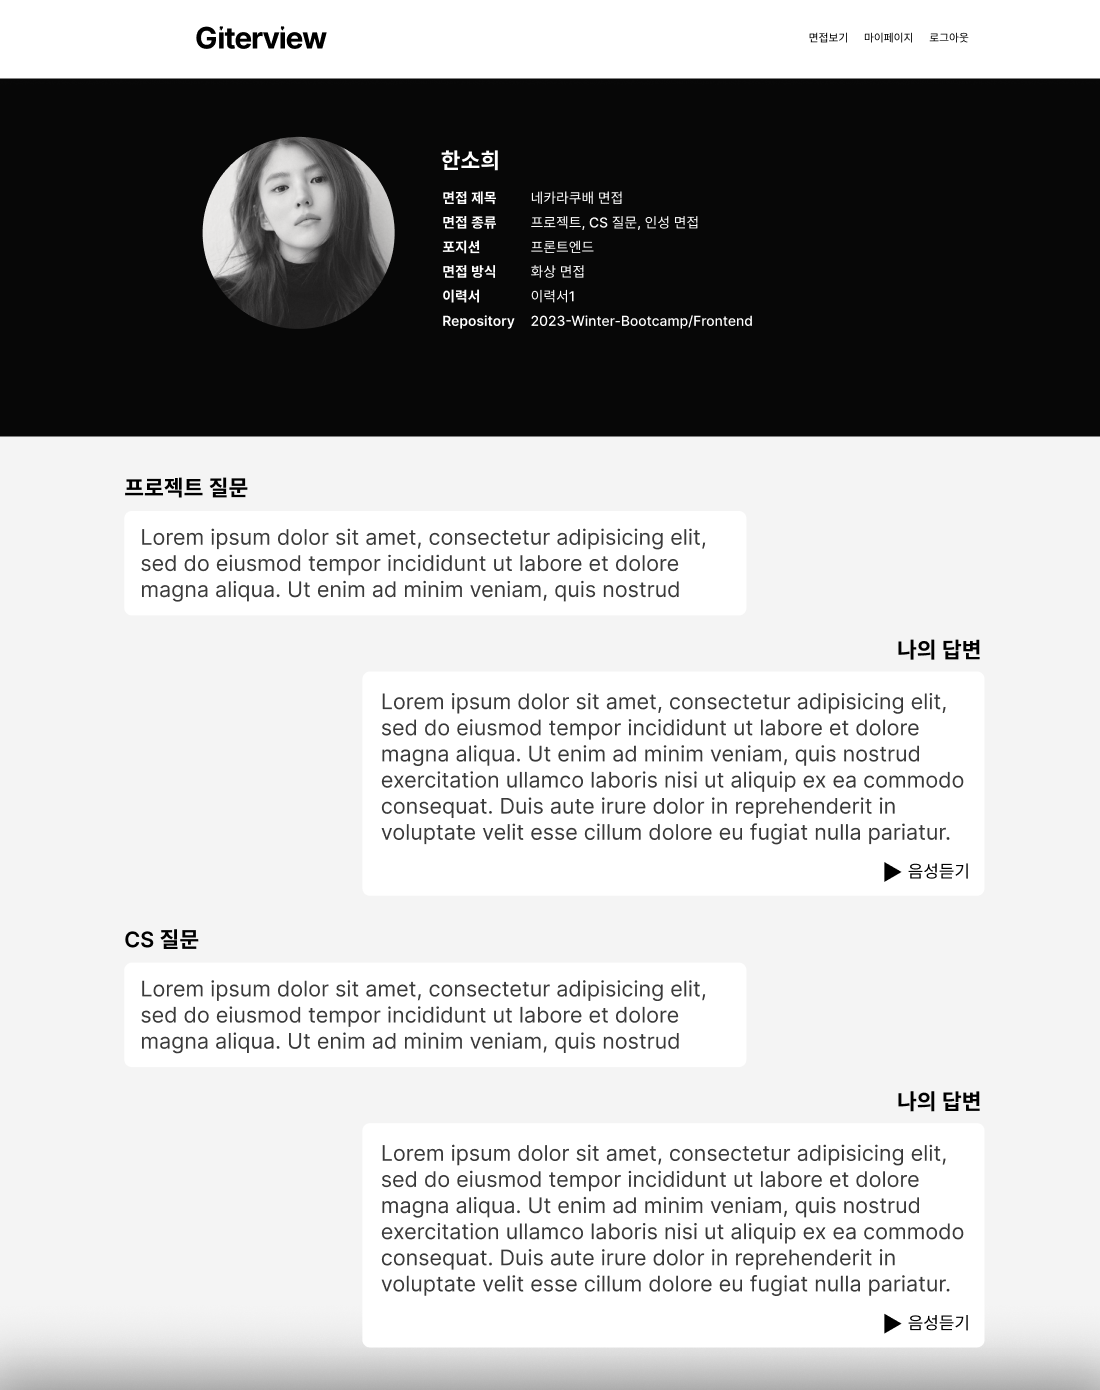
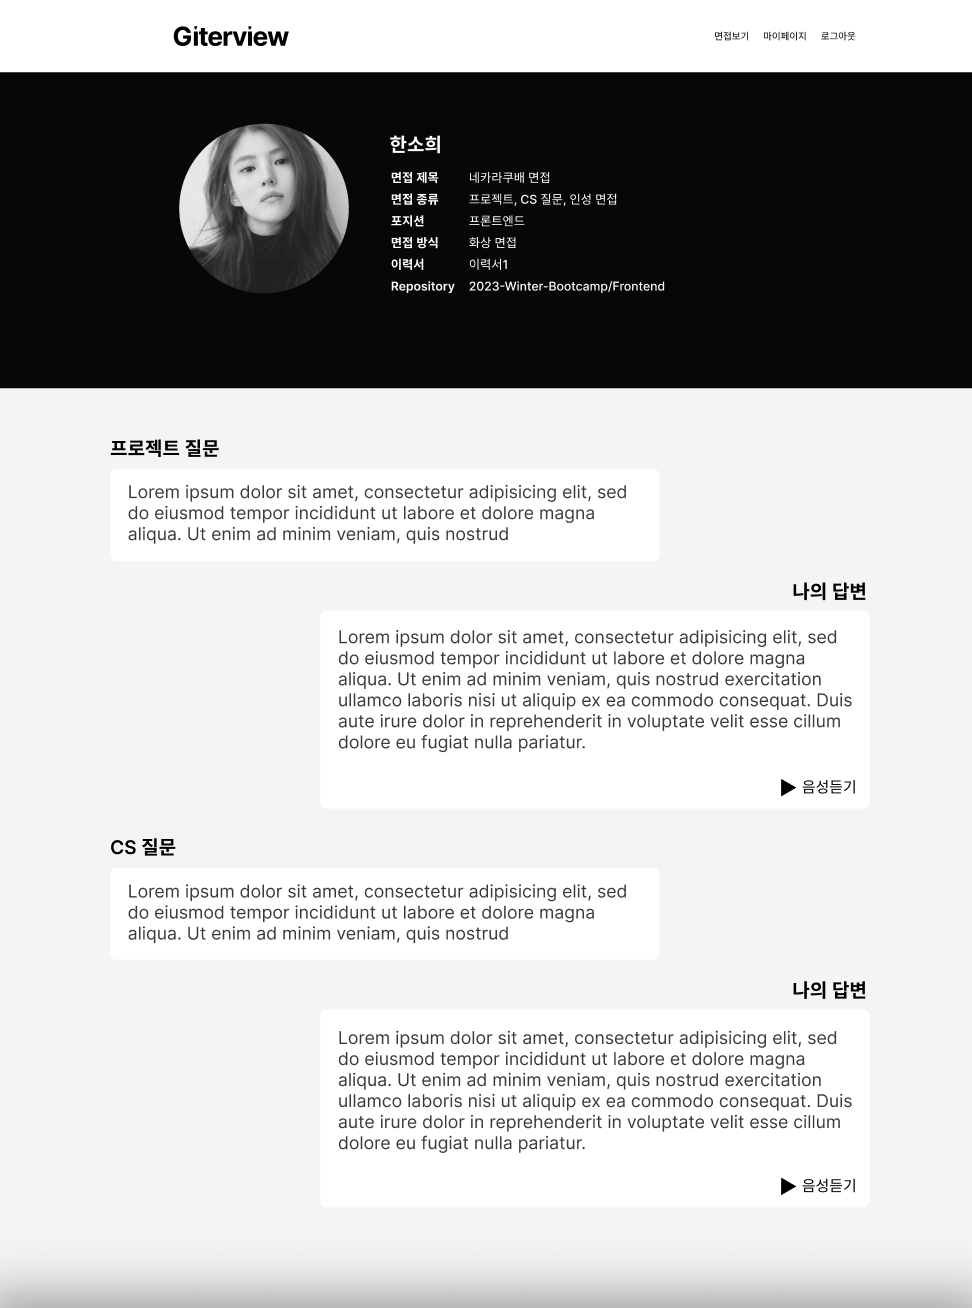
feat:디테일 수정 페이지 제작 완료

diff --git a/2023winterbootcamp/src/components/Header.tsx b/2023winterbootcamp/src/components/Header.tsx
@@ -129,12 +129,14 @@ const MotionNavItem = styled(motion(NavItem))`
 `;
 
 const ActiveBox = styled.div<{ $isActive: boolean }>`
-  ${props => props.$isActive && css`
-    font-weight: 800;
-    text-decoration: underline;
-    text-underline-position: under;
-    text-decoration-thickness: 2px;
-  `}
+  ${(props) =>
+    props.$isActive &&
+    css`
+      font-weight: 800;
+      text-decoration: underline;
+      text-underline-position: under;
+      text-decoration-thickness: 2px;
+    `}
 `;
 
 function Header() {
@@ -221,20 +223,22 @@ function Header() {
                 to="/mypage"
                 initial={{ opacity: 0, y: -10 }}
                 animate={{ opacity: 1, y: 0 }}
-                transition={{ duration: 1, delay: 0.7 }}
+                transition={{ duration: 1, delay: 0.8 }}
               >
                 마이페이지
               </MotionNavItem>
             </ActiveBox>
-            <MotionNavItem
-              to="/"
-              onClick={handleLogout}
-              initial={{ opacity: 0, y: -10 }}
-              animate={{ opacity: 1, y: 0 }}
-              transition={{ duration: 1, delay: 0.9 }}
-            >
-              로그아웃
-            </MotionNavItem>
+            <ActiveBox $isActive={false}>
+              <MotionNavItem
+                to="/"
+                onClick={handleLogout}
+                initial={{ opacity: 0, y: -10 }}
+                animate={{ opacity: 1, y: 0 }}
+                transition={{ duration: 1, delay: 0.9 }}
+              >
+                로그아웃
+              </MotionNavItem>
+            </ActiveBox>
           </>
         ) : (
           <MotionNavItem
@@ -242,7 +246,7 @@ function Header() {
             onClick={handleGithubLogin}
             initial={{ opacity: 0, y: -10 }}
             animate={{ opacity: 1, y: 0 }}
-            transition={{ duration: 1, delay: 0.8 }}
+            transition={{ duration: 1, delay: 0.9 }}
           >
             로그인
           </MotionNavItem>

diff --git a/2023winterbootcamp/src/Resultpage.tsx b/2023winterbootcamp/src/Resultpage.tsx
@@ -243,7 +243,7 @@ const QuestionBox = styled.div`
 const QLargeText = styled.div`
   font-size: 24px;
   font-weight: 700;
-  margin-bottom: 6px;
+  margin-bottom: 10px;
   overflow: auto;
   margin-top: 40px;
   @media screen and (max-width: 768px) {
@@ -265,12 +265,13 @@ const QSmallText = styled.div`
   overflow: auto;
   max-height: 185px;
   margin-bottom: 10px;
+  line-height: 24px;
 `;
 
 const ALargeText = styled.div`
   font-size: 24px;
   font-weight: 700;
-  margin-bottom: 4px;
+  margin-bottom: 8px;
   overflow: auto;
   align-self: flex-end;
   text-align: right;
@@ -294,6 +295,7 @@ const ASmallText = styled.div`
   white-space: pre-line;
   margin-bottom: 20px;
   text-align: left;
+  line-height: 26px;
 `;
 
 const AnswerBox = styled.div`

diff --git a/2023winterbootcamp/src/Mainpage.tsx b/2023winterbootcamp/src/Mainpage.tsx
@@ -81,9 +81,9 @@ const ScrollContent = styled.div`
 const Text1 = styled.div`
   font-weight: bold;
   font-size: 58px;
-  margin-top: 160px;
+  margin-top: 180px;
   color: #1a1a1a;
-  margin-bottom: 10px;
+  margin-bottom: 20px;
   text-align: left;
   @media screen and (max-width: 768px) {
     font-size: 32px;
@@ -105,7 +105,6 @@ const Text2 = styled.div`
   font-size: 20px;
   margin-top: 10px;
   color: #ffffff;
-  margin-bottom: 4px;
   text-align: left;
   @media screen and (max-width: 768px) {
     font-size: 16px;
